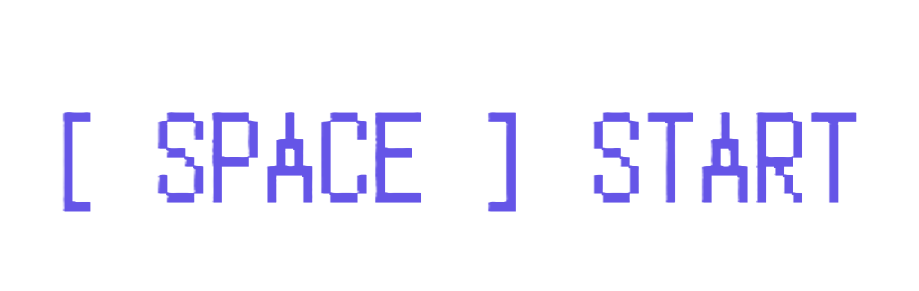
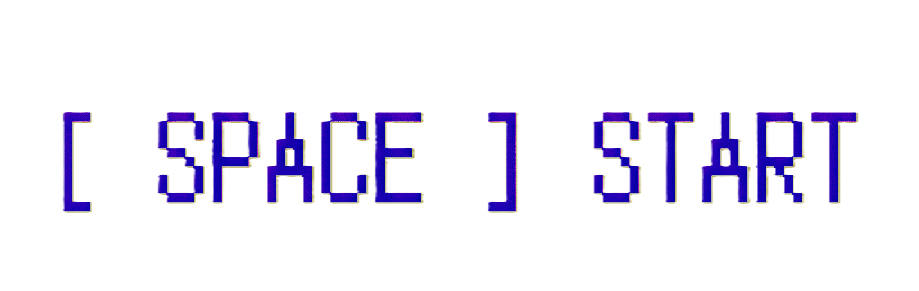
微調整02

diff --git a/README.md b/README.md
@@ -1,27 +1,21 @@
 # saitou-dxlib-week01
 Ghost Scoop - Personal Project in C++
 
-## 概要
-
+##概要
 障害物を避けながら走り続けるシンプルな２Ｄランニングゲームです。
 
-
-## 操作方法
+##操作方法
 
 　ジャンプ　：　Space
  
-## 制作期間
+##制作期間
 
-## 使用技術
+##使用技術
 
 ｃ＋＋　/  DxLib  
 
-## 工夫した点
+##工夫した点
 
 
-## 今後の改善点
+##今後の改善点
 
-
-
-## screenshot
-[title](Game Logo01.png)